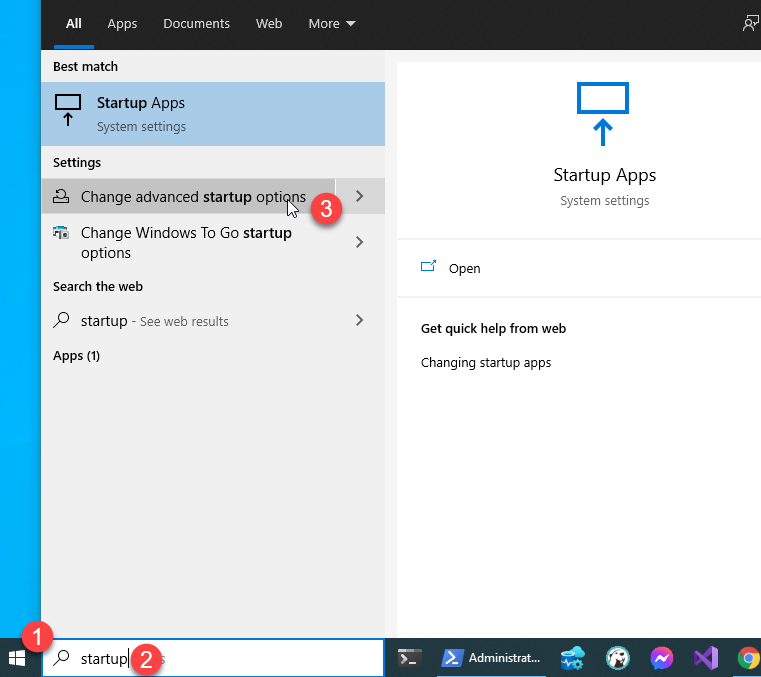
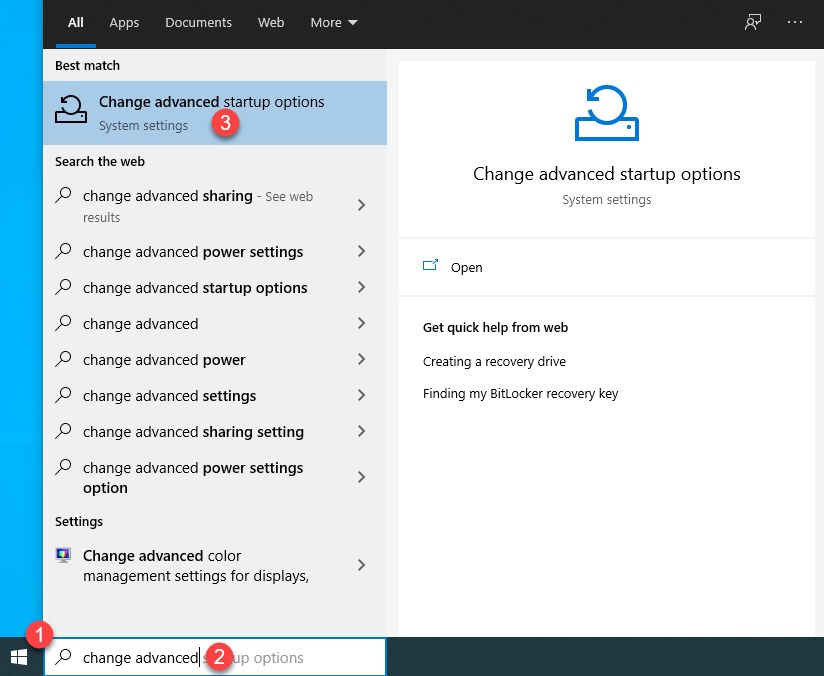
Add MDS driver

diff --git a/src/docs/net-md/sonic-stage-installation-manual.md b/src/docs/net-md/sonic-stage-installation-manual.md
@@ -1,6 +1,6 @@
 ---
-title: ติดตั้งโปรแกรม SonicStage 4.3 และอัพเดทไดร์เวอร์ Net MD สำหรับ window 10 64-bit
-description: การติตตั้งโปรแกรม SonicStage 4.3 และไดร์เวอร์ Net MD สำหรับ window 10 64-bit แบบ step by step
+title: คู่มือติดตั้งโปรแกรม SonicStage 4.3 และอัพเดทไดร์เวอร์ Net MD สำหรับ window 10 64-bit
+description: คู่มือติตตั้งโปรแกรม SonicStage 4.3 และอัพเดทไดร์เวอร์ Net MD สำหรับ window 10 64-bit แบบ step by step
 ---
 
 ## 1. Prepare program and driver
@@ -8,18 +8,21 @@ description: การติตตั้งโปรแกรม SonicStage 4.3 
 เตรียมโปรแกรมและไดร์เวอร์
 
 - ดาวน์โหลดโปรแกรม SonicStage 4.3 [💾คลิกที่นี่เพื่อดาวน์โหลดโปรแกรม](files/SonicStage-4.3.zip)
-- ดาวน์โหลดไดร์เวอร์ 64 bit [💾คลิกที่นี่เพื่อดาวน์โหลดไดร์เวอร์](files/Sony-Net-MD-Driver.zip)
-- ถ้าเบราว์เซอร์แจ้งว่าไฟล์ที่ดาวน์โหลดมาอาจจะมีอัตราย ให้คลิก Keep
+- สำหรับไดร์เวอร์ให้ดาวน์โหลดเฉพาะตัวที่รองรับกับเครื่องเล่น หากไม่แน่ใจว่าต้องดาวน์โหลดตัวใด แนะนำให้ดาวน์โหลดตัวแรกครับ
 
+| ไดร์เวอร์สำหรับรุ่น (ทดสอบแล้วว่าใช้งานได้) | ลิงค์ดาวน์โหลด (คลิกเพื่อดาวน์โหลด)                   |
+|------------------------------------|------------------------------------------------|
+| MZ-N920, LAM-Z05                   | [💾ดาวน์โหลด](files/generic-version-driver.zip) |
+| MDS-S500                           | [💾ดาวน์โหลด](files/mds-driver.zip)             |
+
+**ถ้าท่านใดสามารถใช้งานไดร์เวอร์ที่ดาวน์โหลดไปกับเครื่องเล่นที่ไม่ได้ระบุในนี้ สามารถแจ้งมายังกลุ่ม [Minidisc Playground](https://www.facebook.com/groups/mdplayground) ทางเราจะได้ทำการเพิ่มข้อมูลรุ่นที่รองรับเข้าไปครับ**
+
+- ถ้าเบราว์เซอร์แจ้งว่าไฟล์ที่ดาวน์โหลดมาอาจจะมีอัตราย ให้คลิก **Keep** ดังในรูปด่านล่างนี้ (ตรงนี้ไม่ต้องกังวล ปลอดภัยครับ)
 ![](images/keep-downloaded-file.png)
 
-ภาพแสดงไฟล์ทั้งหมดที่ได้โหลดลงมาเก็บในโฟล์เดอร์ **Downloads**
+- Unzip แตกไฟล์ SonicStage-4.3.zip และไดร์เวอร์ที่ดาวน์โหลดมา
 
-![](images/downloaded-files.png)
-
-- Unzip แตกไฟล์ SonicStage-4.3.zip และ Sony-Net-MD-Driver.zip
-
-โครงสร้างไฟล์ชองโฟล์เดอร์ SonicStage-4.3
+ตัวอย่างโครงสร้างไฟล์ของโฟล์เดอร์ SonicStage-4.3
 ```sh
 └───SonicStage-4.3
 │   ├───Common
@@ -30,14 +33,6 @@ description: การติตตั้งโปรแกรม SonicStage 4.3 
 │   ExtendSs.dll
 │   SetupSS.exe 👈 ไฟล์สำหรับติดตั้งโปรแกรม
 │   SetupSS.ini
-```
-
-โครงสร้างไฟล์ของโฟล์เดอร์ Sony-Net-MD-Driver
-```sh
-└───Sony-Net-MD-Driver
-│   netmd760.cat
-│   NETMD760.inf
-│   NETMD760.sys
 ```
 
 ## 2. Install SonicStage
@@ -54,7 +49,7 @@ description: การติตตั้งโปรแกรม SonicStage 4.3 
 ทำการ Disable driver signature enforcement เพื่อทำให้สามารถอัพเดท Net MD ไดร์เวอร์ได้
 
 - เลื่อนเมาส์ไปที่มุมล้างซ้ายของหน้าจอ คลิกไอคอนรูป **Windows**
-- พิมพ์คำว่า **startup**
+- พิมพ์คำว่า **change advanced**
 - คลิกเลือก **Change advanced startup options**.
 
 ![](images/change-advanced-startup-options.png)
@@ -106,7 +101,8 @@ description: การติตตั้งโปรแกรม SonicStage 4.3 
 - เลือก **Browser my computer for drivers**
 
 - หน้า **Update Drivers - Net MD** จะแสดงขึ้นมา ให้คลิกปุ่ม **Browse**
-- เลือกโฟลเดอร์ที่เก็บ Sony-Net-MD-Driver ที่เราได้ดาวน์โหลดและแตกไฟล์ไว้แล้ว ในตัวอย่างนี้เราเก็บไดร์เวอร์ไว้ที่ This PC > Downloads > Sony-Net-MD-Driver
+- เลือกโฟลเดอร์ที่เก็บ Sony-Net-MD-Driver ที่เราได้ดาวน์โหลดและแตกไฟล์ไว้แล้ว **!!! สำคัญมาก ถ้าเรายังไม่แตกไฟล์ หน้าต่างนี้จะมองไม่เห็นโฟล์เดอร์ของไดร์เวอร์**
+- ในตัวอย่างนี้เราเก็บไดร์เวอร์ไว้ที่ This PC > Downloads > Sony-Net-MD-Driver
 - กด **OK** เพื่อเลือกโฟล์เดอร์
 - กด **Next** เพื่ออัพเดทไดร์เวอร์
 
@@ -150,6 +146,7 @@ description: การติตตั้งโปรแกรม SonicStage 4.3 
 ## Credit & Reference
 - คุณชาย Teerapong Kuchi Seeker, คุณ Parinya Jaipang, คุณอาทิตย์ สมวาที, คุณ Tanapon Sean Pochatan, คุณ Napadon Tang
 - คุณ [Puwanai Mahachinorot](https://www.facebook.com/pinghitz)
+- คุณ [Krit Methasit](https://www.facebook.com/krit.kritanusarn) ที่ช่วยทดสอบติดตั้งโปรแกรมตามคู่มือนี้ และให้คำแนะนำที่เป็นประโยชน์
 - เพื่อนสมาชิกในกลุ่ม [Minidisc Playground (พื้นที่ของคนชอบเล่นเอ็มดี)](https://www.facebook.com/groups/mdplayground/)
 - ข้อมูลจาก DoSomething ใน Youtube (https://youtu.be/euTfzqsm8YQ)
 - ข้อมูลจาก https://www.techspace.co.th/kb/entry/412/
